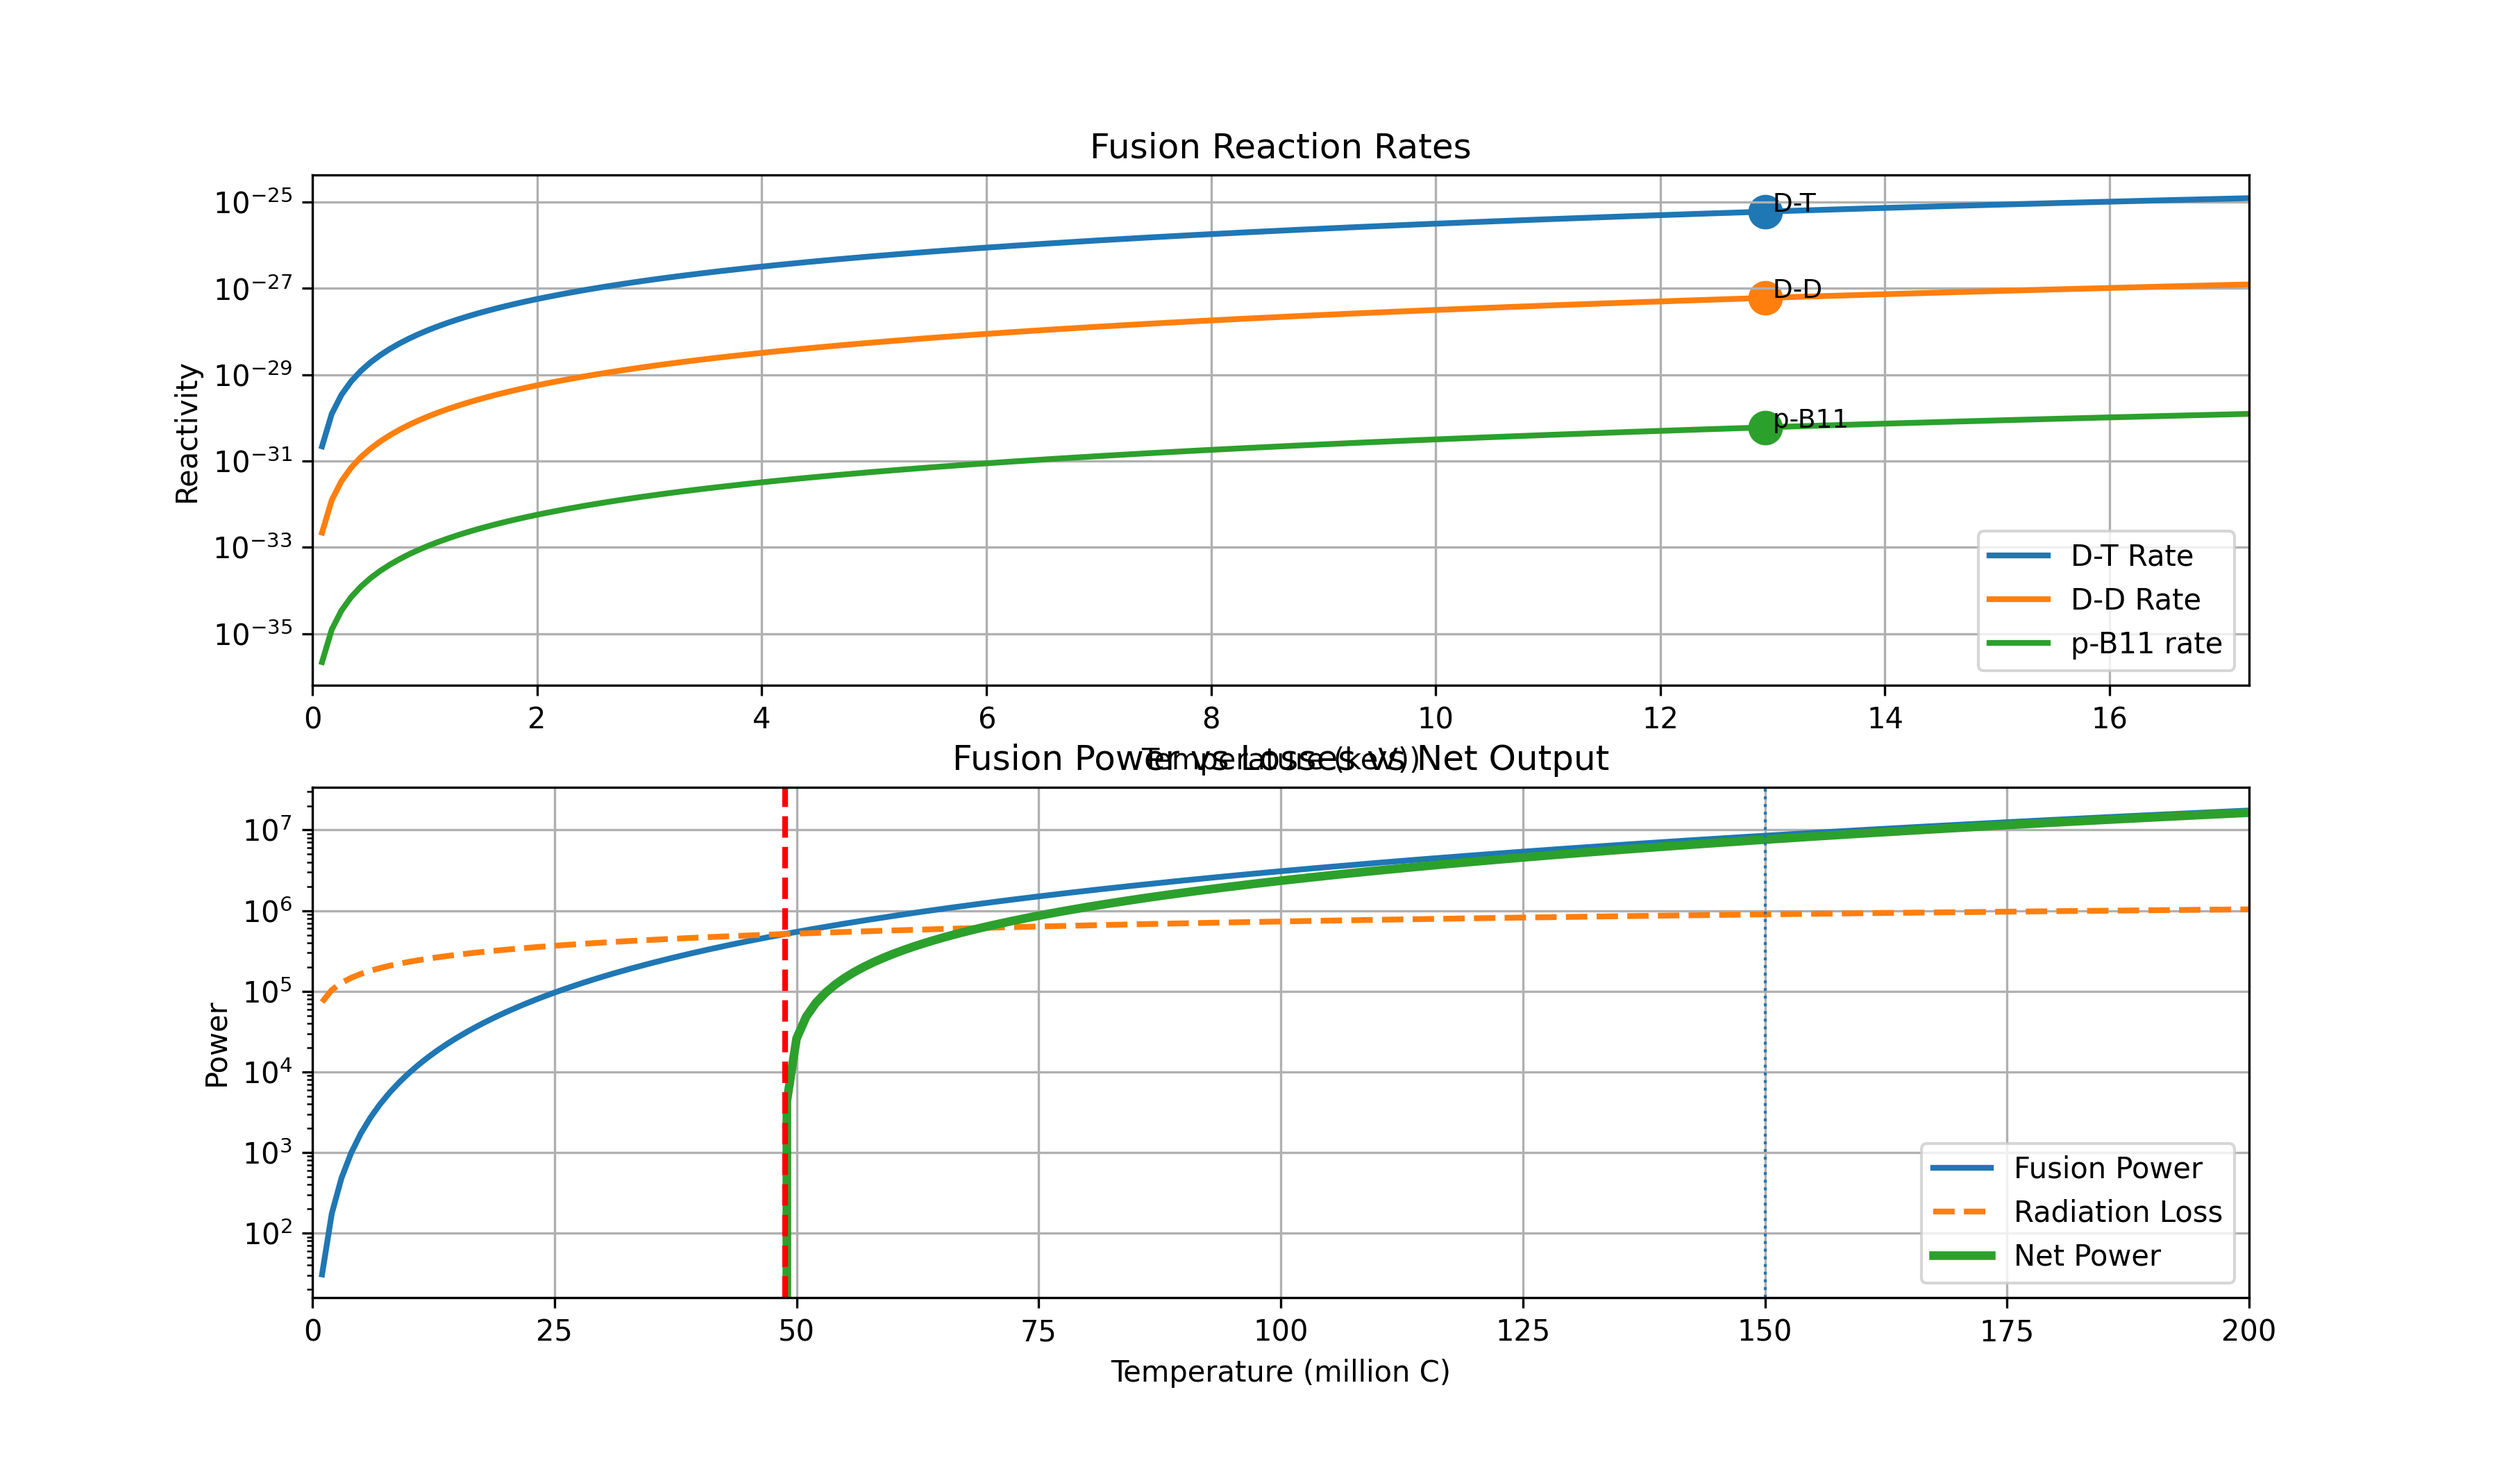
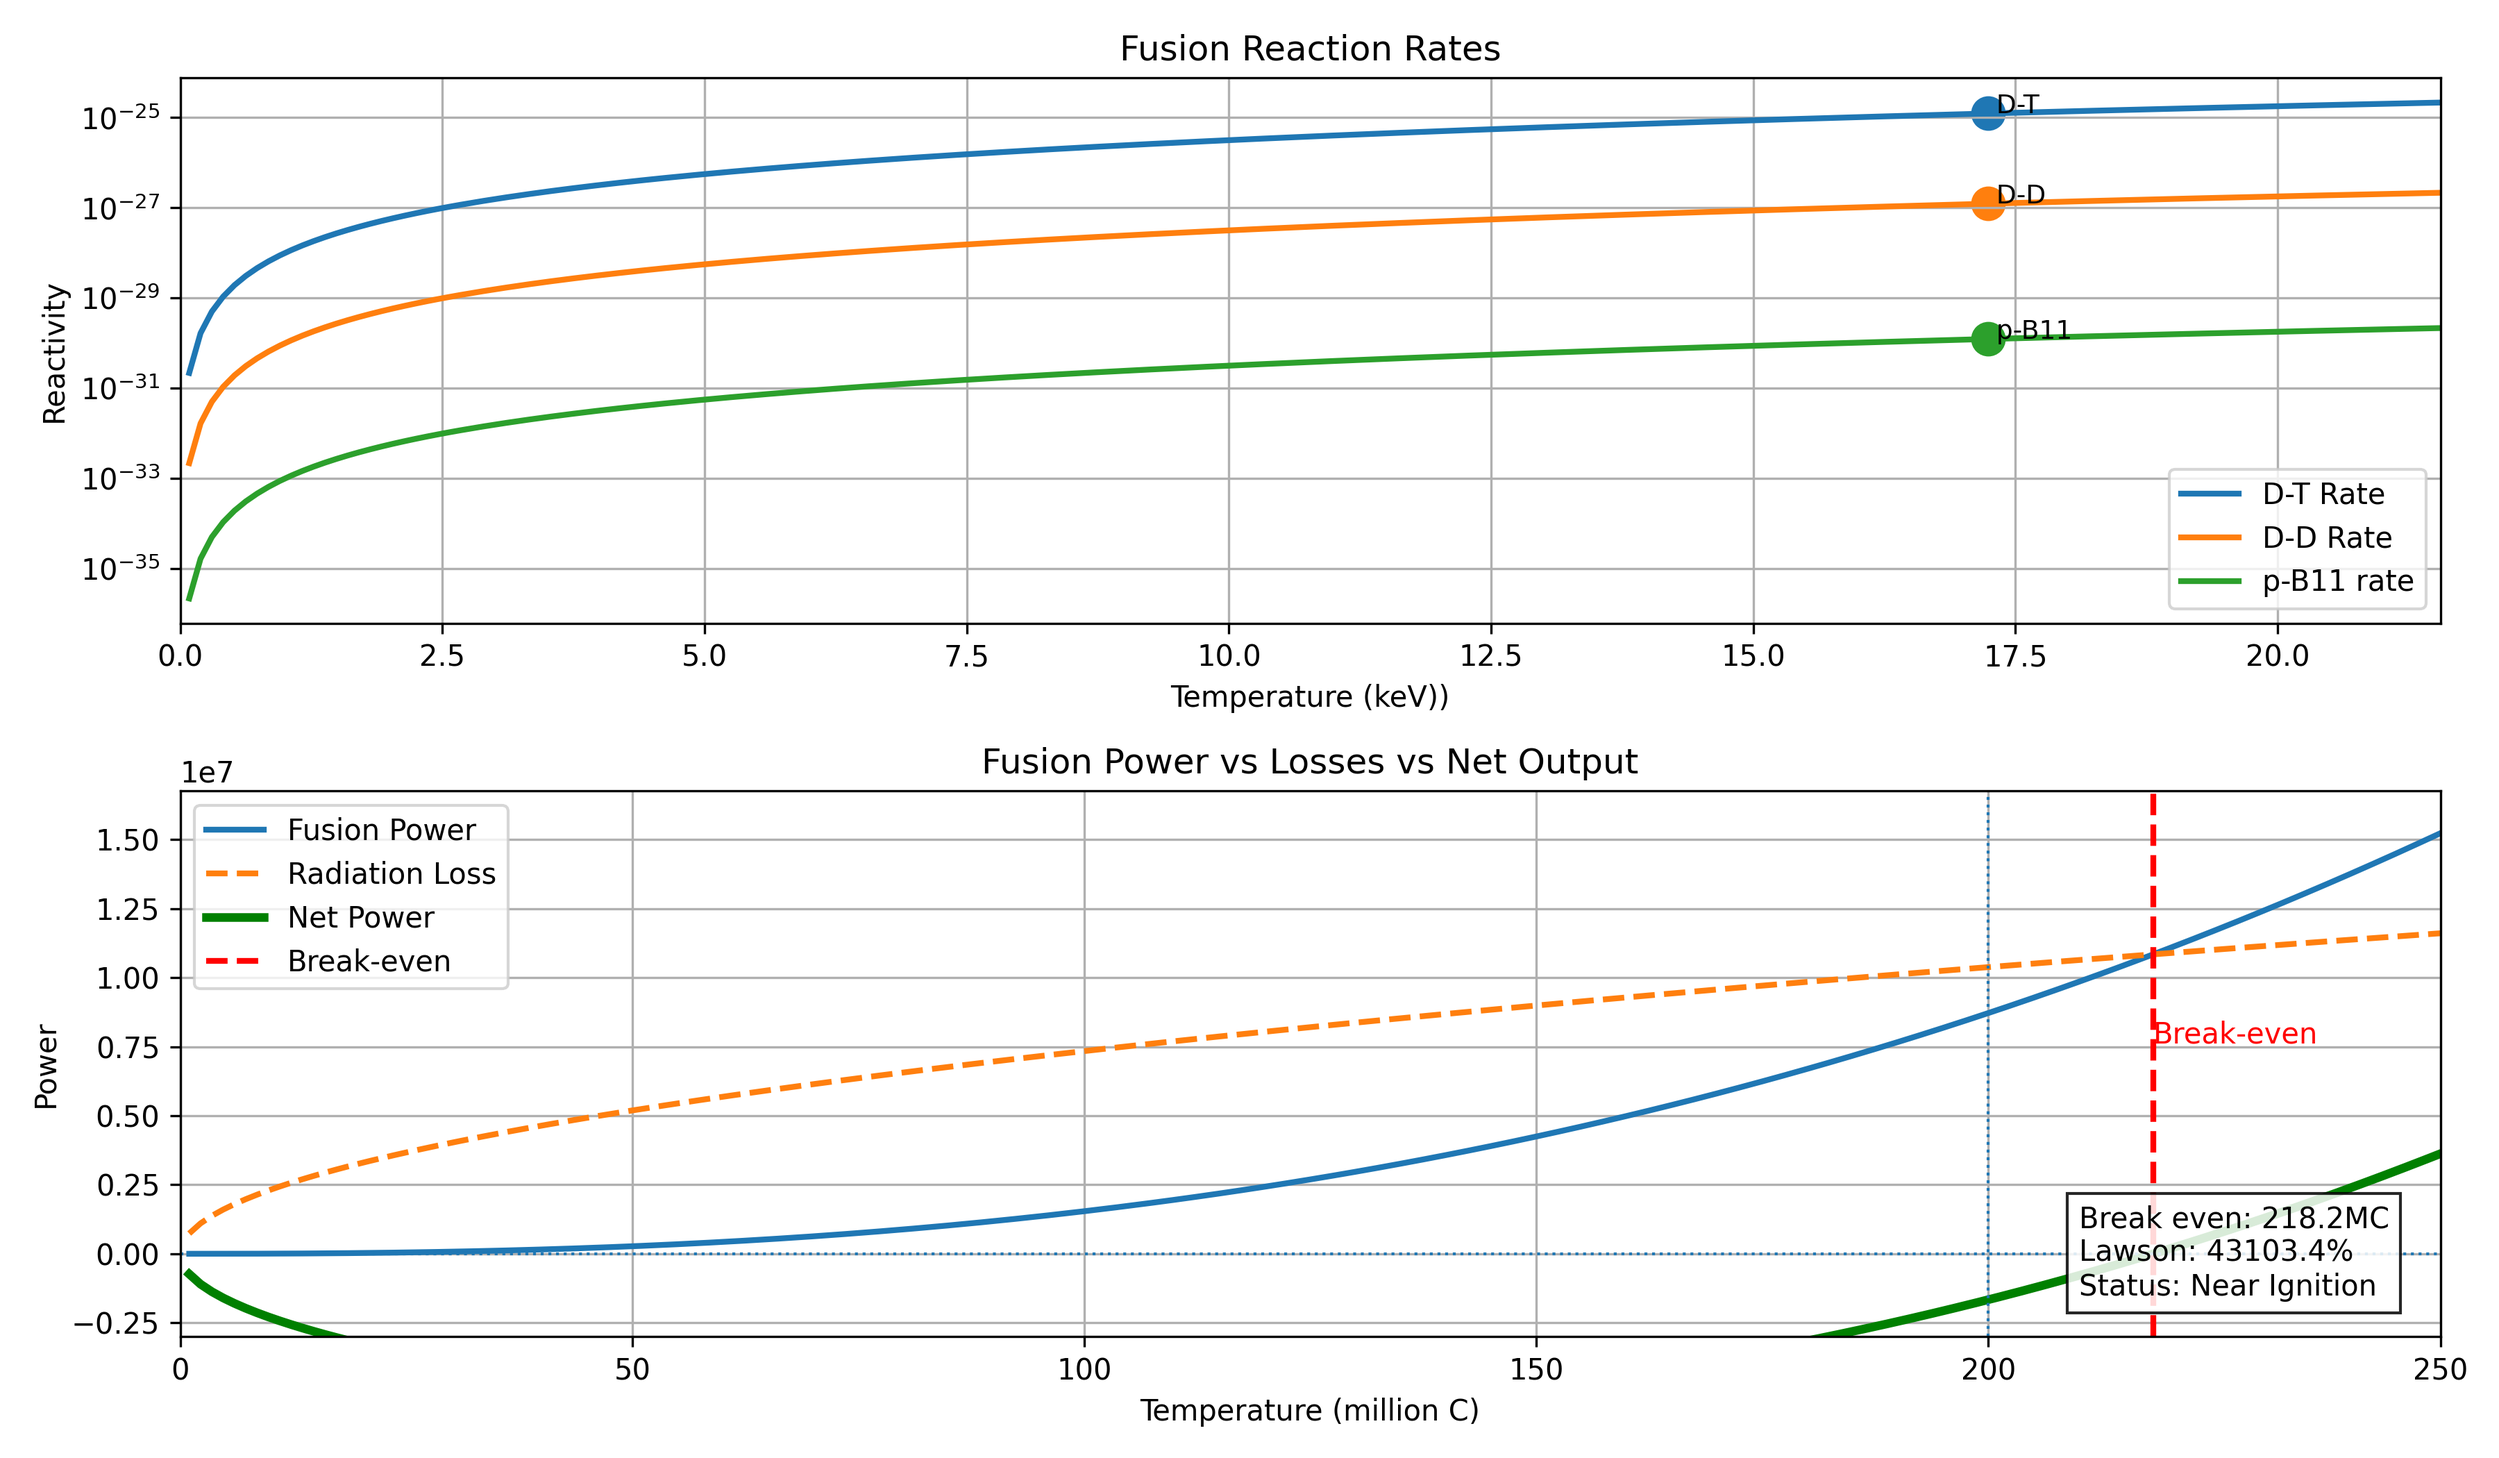
Added Lawson Progress, Q-factor and Improved break-even detection

diff --git a/fusion_calculator.py b/fusion_calculator.py
@@ -88,7 +88,7 @@ dd_energy *= efficiency
 pb_energy *= efficiency
 
 # Density
-n = 1e20  # paricles per m3
+n = density  # paricles per m3
 
 # Energy per reaction (Joules)
 E_DT = 17.6e6 * 1.602e-19
@@ -98,13 +98,11 @@ E_PB = 8.7e6 * 1.602e-19
 # Temperature in keV for full range
 T_keV_curve = temperatures / 11.6
 
-# Radiation losses 
-radiation_loss = 1e-37 * n**2 * np.sqrt(T_keV_curve)
 
 # Plasma composition 
 fuel_mix = float(input("Enter Fuel mix (0-1). "))
 
-total_energy = (fuel_mix * dt_energy * (1 - fuel_mix) * dd_energy)
+total_energy = fuel_mix * dt_energy + (1 - fuel_mix) * dd_energy
 
  
 
@@ -126,8 +124,6 @@ elif ntau >= LAWSON_DT:
     print ("Fusion possible, but temperature not optimal")
 else: 
     print ("Fusion not achieved") 
-print (f"Radiation loss min:{radiation_loss.min():.3e}")
-print (f"Radiation loss max:{radiation_loss.max():.3e}")
 print ("\n===Power Balance===")
 print (f"Fusion power: {total_energy:.3e}")
 radiation_loss_point = 1e-37 * n**2 * np.sqrt(T_keV)
@@ -145,12 +141,19 @@ pb_rates = np.array([reactivity_saddle(T, *pb_params) for T in T_keV_curve])
 print ("dt_rates min:", dt_rates.min())
 print ("dt_rates max:", dt_rates.max())
 
+# Power Curves
 dt_power = n**2 * dt_rates * E_DT
 dd_power = n**2 * dd_rates * E_DD
 pb_power = n**2 * pb_rates * E_PB
 
+# Total Fusion Power
 total_power = dt_power + dd_power + pb_power
-net_power = total_power - radiation_loss 
+
+# Radiation Loss Curve
+radiation_curve = 1e-37 * density**2 * np.sqrt(T_keV_curve)
+
+# Net Power
+net_power = total_power - radiation_curve 
 
 # Energy curves
 dt_energy_curve = dt_rates * density**2 * confinement_time * DT_ENERGY * MEV_TO_J * efficiency
@@ -160,21 +163,45 @@ pb_energy_curve = pb_rates * density**2 * confinement_time * PB_ENERGY * MEV_TO_
 # Temperature in keV for full range
 T_keV_curve = temperatures / 11.6
 
+
 # Convert keV to million C
 T_million_C = T_keV_curve * 11.6
 
-# Radiation loss curve
-radiation_curve = 1e-38 * density**2 * np.sqrt(T_keV_curve)
 
 # Total fusion (based on mix)
-fusion_total_curve = (dt_energy_curve + dd_energy_curve + pb_energy_curve) 
+fusion_total_curve = total_power 
 
 # Net power
 net_power_curve = fusion_total_curve - radiation_curve
 
-print ("n\=== DEBUG GET POWER ===")
-print ("Min net:", np.min(net_power_curve))
-print ("Max net:", np.max(net_power_curve))
+# ===== Q-Factor Calculation =====
+Q_curve = fusion_total_curve / (radiation_curve + 1e-30)
+
+user_index = np.argmin(np.abs(T_million_C - user_temp))
+Q_value = Q_curve[user_index]
+
+print ("\n=== Q-Factor ===")
+print (f"Q-factor at {user_temp:.1f} million C: {Q_value:.3f}")
+
+if Q_value < 1:
+    print ("Below break-even (Q< 1)")
+elif Q_value == 1:
+    print ("At break-even (Q = 1)")
+else:
+    print ("Net positive fusion (Q > 1)")
+
+# ===== Lawson Progress =====
+lawson_progress = (ntau / LAWSON_DT) * 100
+
+print ("\n=== Lawson Progress ===")
+print (f"Lawson Progress: {lawson_progress:.1f}%")
+
+if lawson_progress < 100: 
+    print ("Below Lawson Criterion")
+elif lawson_progress == 100:
+    print ("At Lawson Criterion")
+else:
+    print ("Beyond Lawson Criterion")
 
 # Plotting section
 plt.figure(figsize=(12, 7))
@@ -214,39 +241,73 @@ plt.grid()
 #===== Bottom Graph: Energy + Losses =====
 plt.subplot(2, 1, 2)
 
-# Fusion Energy Curves
-plt.plot(T_million_C, fusion_total_curve, label="Fusion Power", linewidth=2)
+# Fusion Power
+plt.plot(T_million_C, total_power, label="Fusion Power", linewidth=2)
 
 # Radiation Loss
 plt.plot(T_million_C, radiation_curve, "--", label="Radiation Loss", linewidth=2)
 
 # Net Power
-plt.plot(T_million_C, net_power_curve, linewidth=3, label="Net Power")
+plt.plot(T_million_C, net_power_curve, linewidth=3, label="Net Power", color="green")
 
-# Break even line
+# Extending y-limit
+plt.ylim(-3000000, max(fusion_total_curve) * 1.1)
+
+# Break even detection
 zero_index = np.where(np.diff(np.sign(net_power_curve)) !=0)[0]
 if len(zero_index) > 0:
     i = zero_index[0]
    
-    
-    x1, x2 = T_million_C[i], T_million_C[i+1]
-    y1, y2 = net_power_curve[i], net_power_curve[i+1]
+    # Interpolate better crossing point
+    x1 = temperatures[i]
+    x2 = temperatures[i + 1]
+
+    y1 = net_power_curve[i]
+    y2 = net_power_curve[i + 1]
+
     break_even_temp = x1 - y1 * (x2 - x1) / (y2 - y1)
  
-        
-    plt.axvline(break_even_temp, color='red', linestyle='--', linewidth=2)
-    y_position = net_power_curve[i]   
-    
-    plt.text(break_even_temp, y1, " Break-even", color='red', fontsize=10)
     print (f"Break-even at ~{break_even_temp:.2f} million C")
+
+    plt.axvline(break_even_temp,
+                color="red",
+                linestyle="--",
+                linewidth=2,
+                label="Break-even")
+
+    plt.text(break_even_temp, 
+             max(fusion_total_curve) * 0.5,
+             "Break-even",
+             color="Red",
+             fontsize=10)
 else: 
     print ("No Break-even point found")
+
+# ===== Dashboard Summary Box =====
+if Q_value > 1:
+    status = "Below Break Even"
+elif Q_value < 2:
+    status = "Near Ignition"
+else:
+    status = "Net Positive Fusion"
+
+summary_text = (f"Break even: {break_even_temp:.1f}MC\n"
+                f"Lawson: {lawson_progress:.1f}%\n"
+                f"Status: {status}")
+
+plt.text( # x-position
+         210,
+         # y-position
+         -1500000, 
+         summary_text, 
+         fontsize=10,
+         bbox=dict(facecolor="white", alpha=0.85, edgecolor="black")) 
 
 # Axis + styling
 plt.xlim(0, max_temp)
 plt.axhline(0, linestyle=":", linewidth=1)
 plt.axvline(user_temp, linestyle=":", linewidth=1)
-plt.yscale("log")
+#plt.yscale("log")
 plt.xlabel("Temperature (million C)")
 plt.ylabel("Power")
 plt.title("Fusion Power vs Losses vs Net Output")
